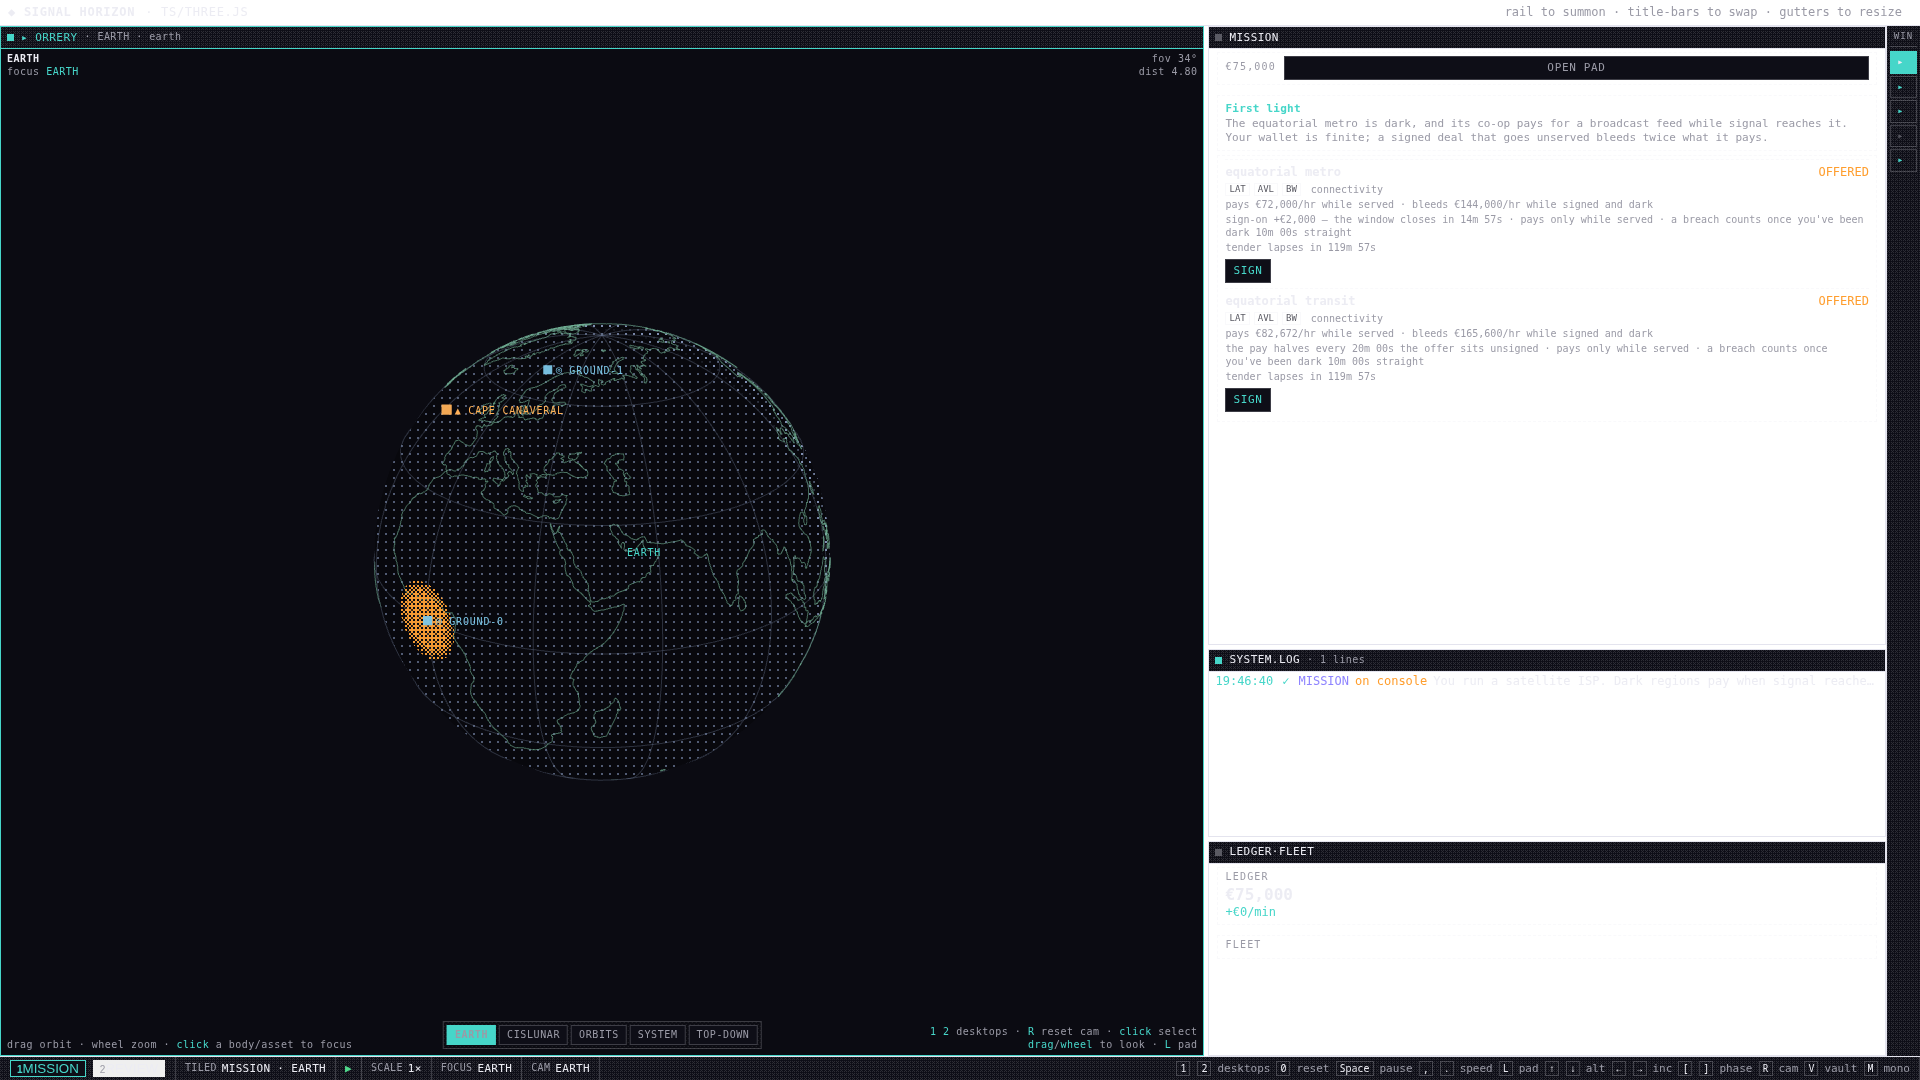
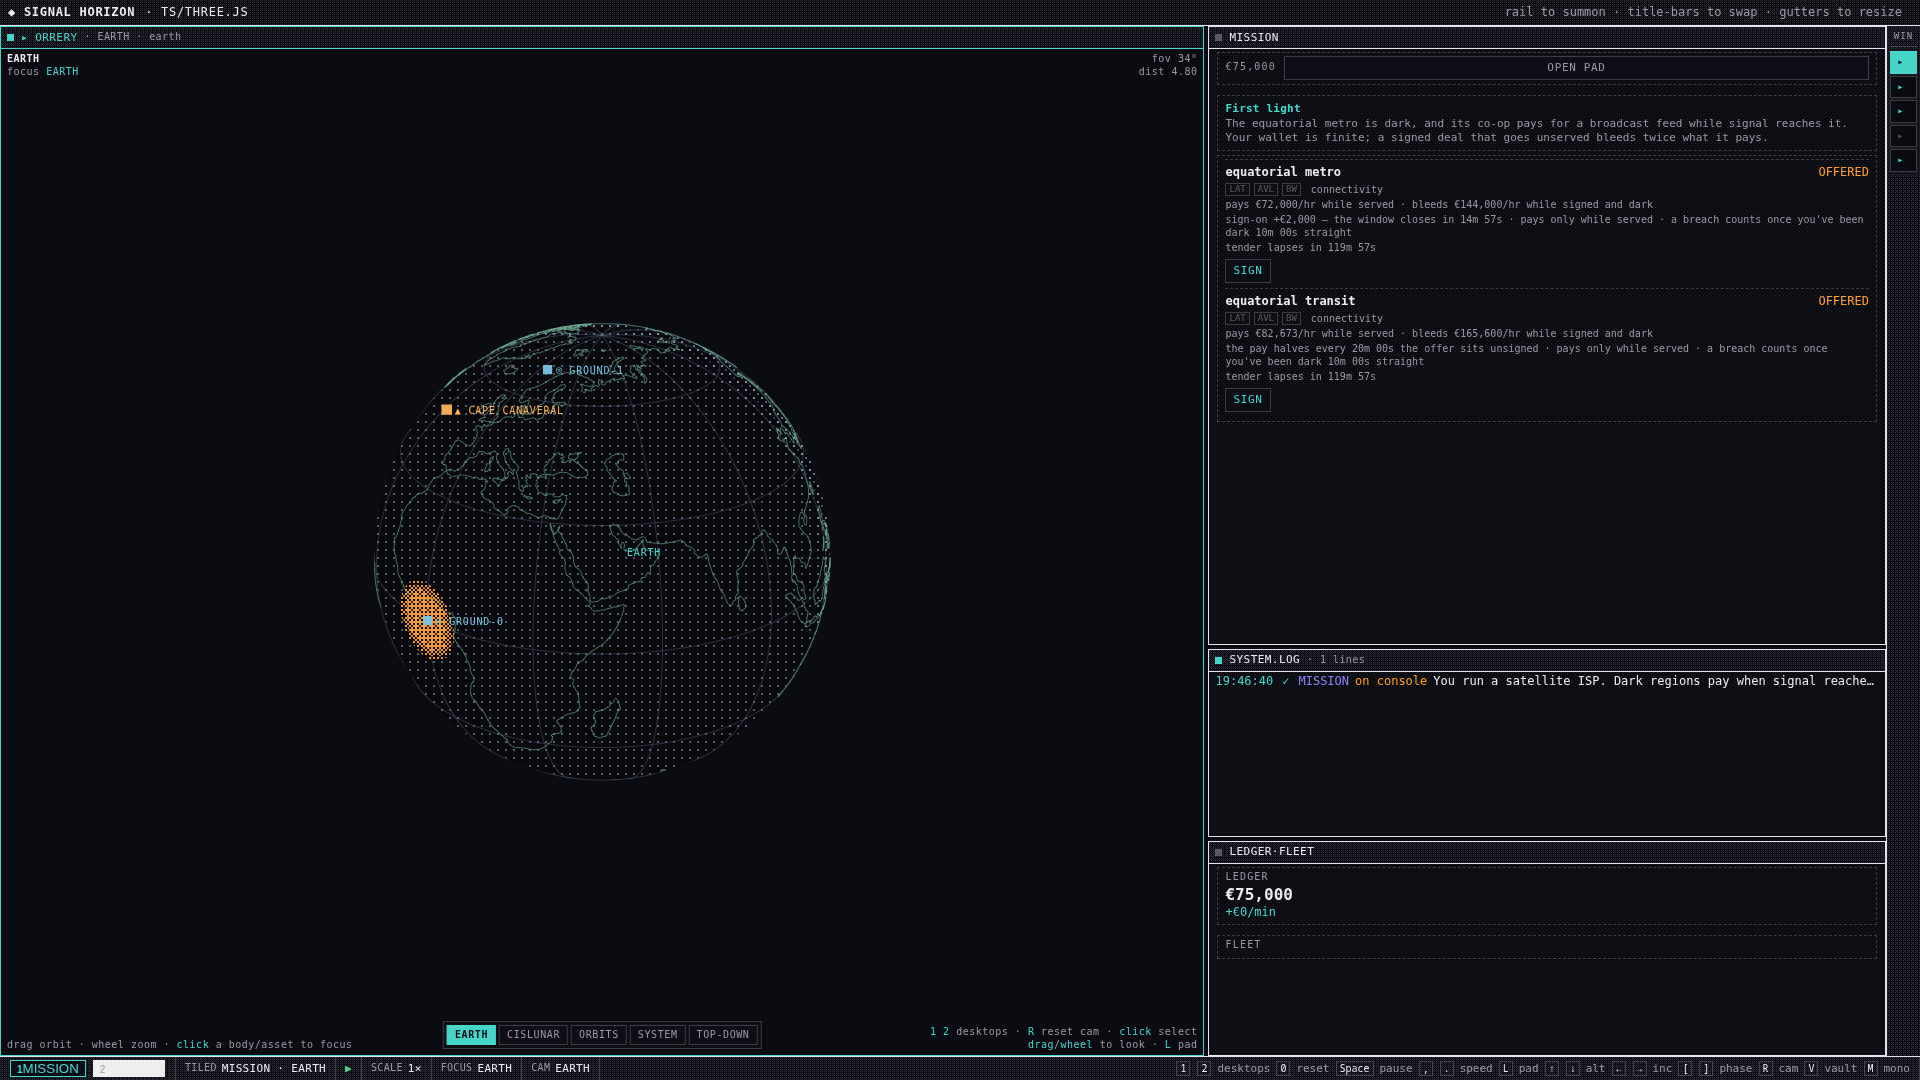
FIX white UX: --bg: var(--bg) self-cycle killed the whole dark palette (falls back to page-white)
The FL-15 palette sweep's regex rewrote the token's own definition. One line.
Prevention: boot scene now asserts the chrome computes near-black + python-pixel
pin of the fixed state. docs/screenshots/playtest/white-fixed.png kept as the
anti-reference.

diff --git a/src/style.css b/src/style.css
@@ -7,7 +7,7 @@
 
 :root {
   /* --- chrome (monochrome) --- */
-  --bg: var(--bg);          /* cool blue-black, never dead black */
+  --bg: #0b0b12; /* cool blue-black, never dead black */
   --bg-2: #0e0e17;
   --fg: #ececf3;          /* near-white */
   --fg-dim: #9a9aa6;
